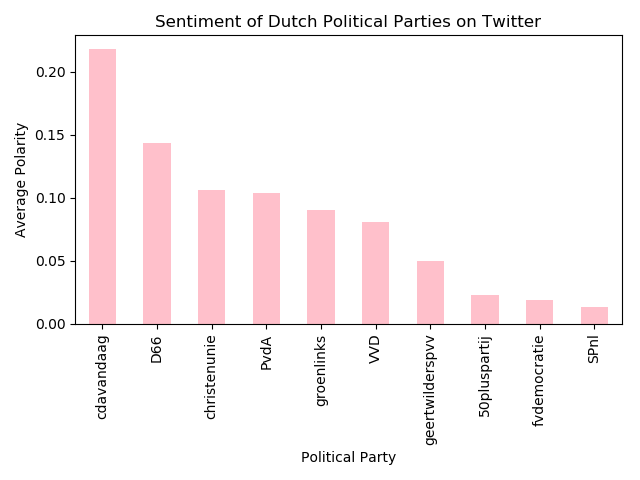
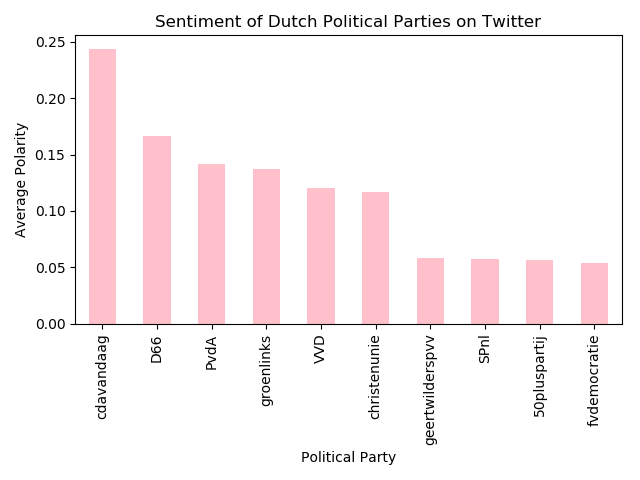
Use processed tweets for sentiment analysis

diff --git a/process_tweets.py b/process_tweets.py
@@ -2,7 +2,6 @@ import re
 import nltk
 import string
 import pandas as pd
-import numpy as np
 import matplotlib.pyplot as plt
 from nltk.corpus import stopwords
 from pattern.text.nl import sentiment
@@ -49,20 +48,34 @@ def clean_data(tweets):
     return tweets
 
 
+# Compute the polarity and subjectivity for every tweet
 def compute_sentiment(tweets):
-    tweets["polarity"] = tweets["tweet_text"].apply(lambda x: sentiment(x)[0])
-    tweets["subjectivity"] = tweets["tweet_text"].apply(lambda x: sentiment(x)[1])
+    tweets["polarity"] = tweets["processed_tweets"].apply(lambda x: sentiment(x)[0])
+    tweets["subjectivity"] = tweets["processed_tweets"].apply(lambda x: sentiment(x)[1])
     return tweets
+
+
+def plot_sentiment(tweets):
+    average_polarity = tweets.groupby('political_party')['polarity'].mean().sort_values(ascending=False)
+    average_polarity.plot.bar(color="pink")
+    plt.xlabel("Political Party")
+    plt.ylabel("Average Polarity")
+    plt.title("Sentiment of Dutch Political Parties on Twitter")
+    plt.tight_layout()
+    plt.savefig("plots/sentiment.png")
+    plt.show()
+
+
+def get_bag_of_words(tweet):
+    return tweet.split()
+
+
+def compute_topics(tweets):
+    tweets["bag_of_words"] = tweets['processed_tweets'].apply(get_bag_of_words)
+    print(tweets['bag_of_words'])
 
 
 tweets = clean_data(tweets)
 tweets = compute_sentiment(tweets)
-
-average_polarity = tweets.groupby('political_party')['polarity'].mean().sort_values(ascending=False)
-average_polarity.plot.bar(color="pink")
-plt.xlabel("Political Party")
-plt.ylabel("Average Polarity")
-plt.title("Sentiment of Dutch Political Parties on Twitter")
-plt.tight_layout()
-plt.savefig("plots/sentiment.png")
-plt.show()
+compute_topics(tweets)
+plot_sentiment(tweets)
